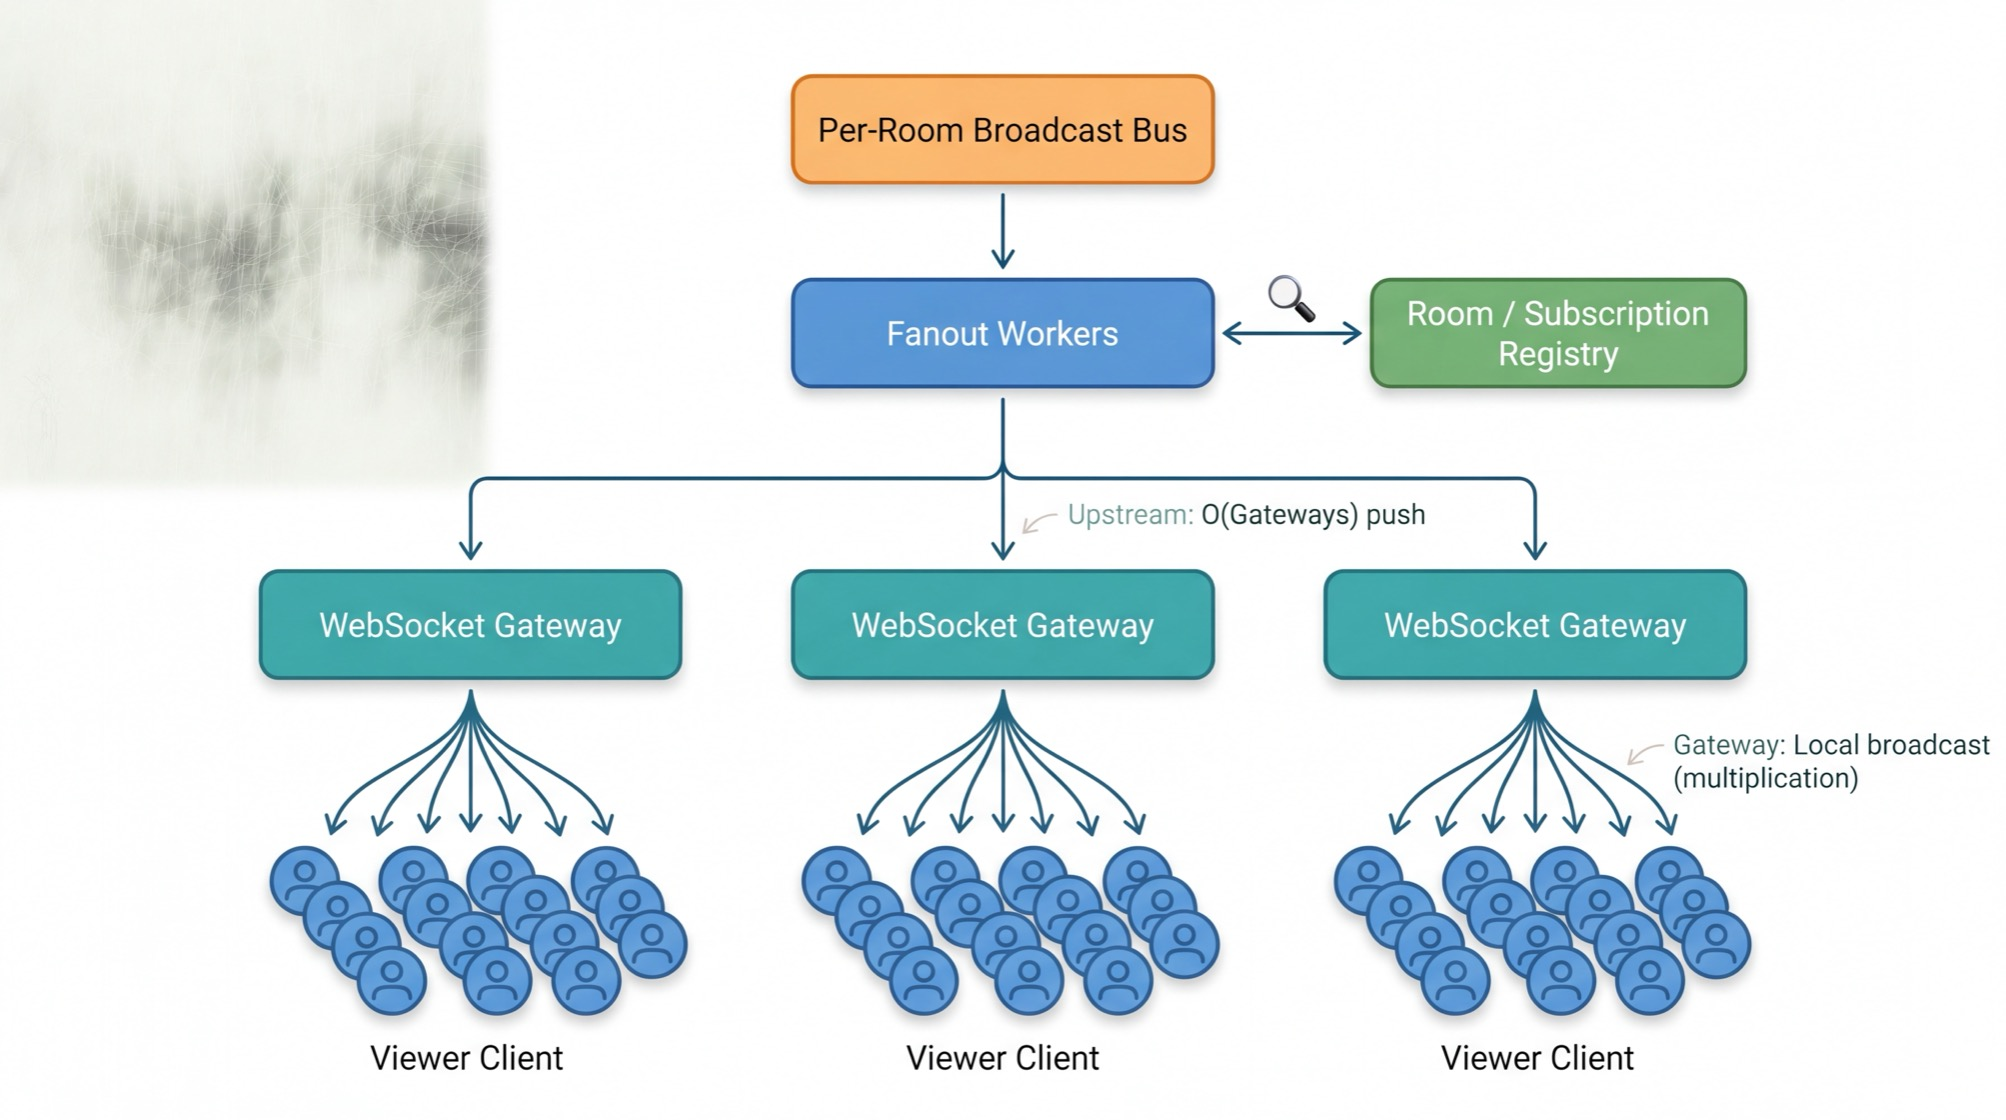
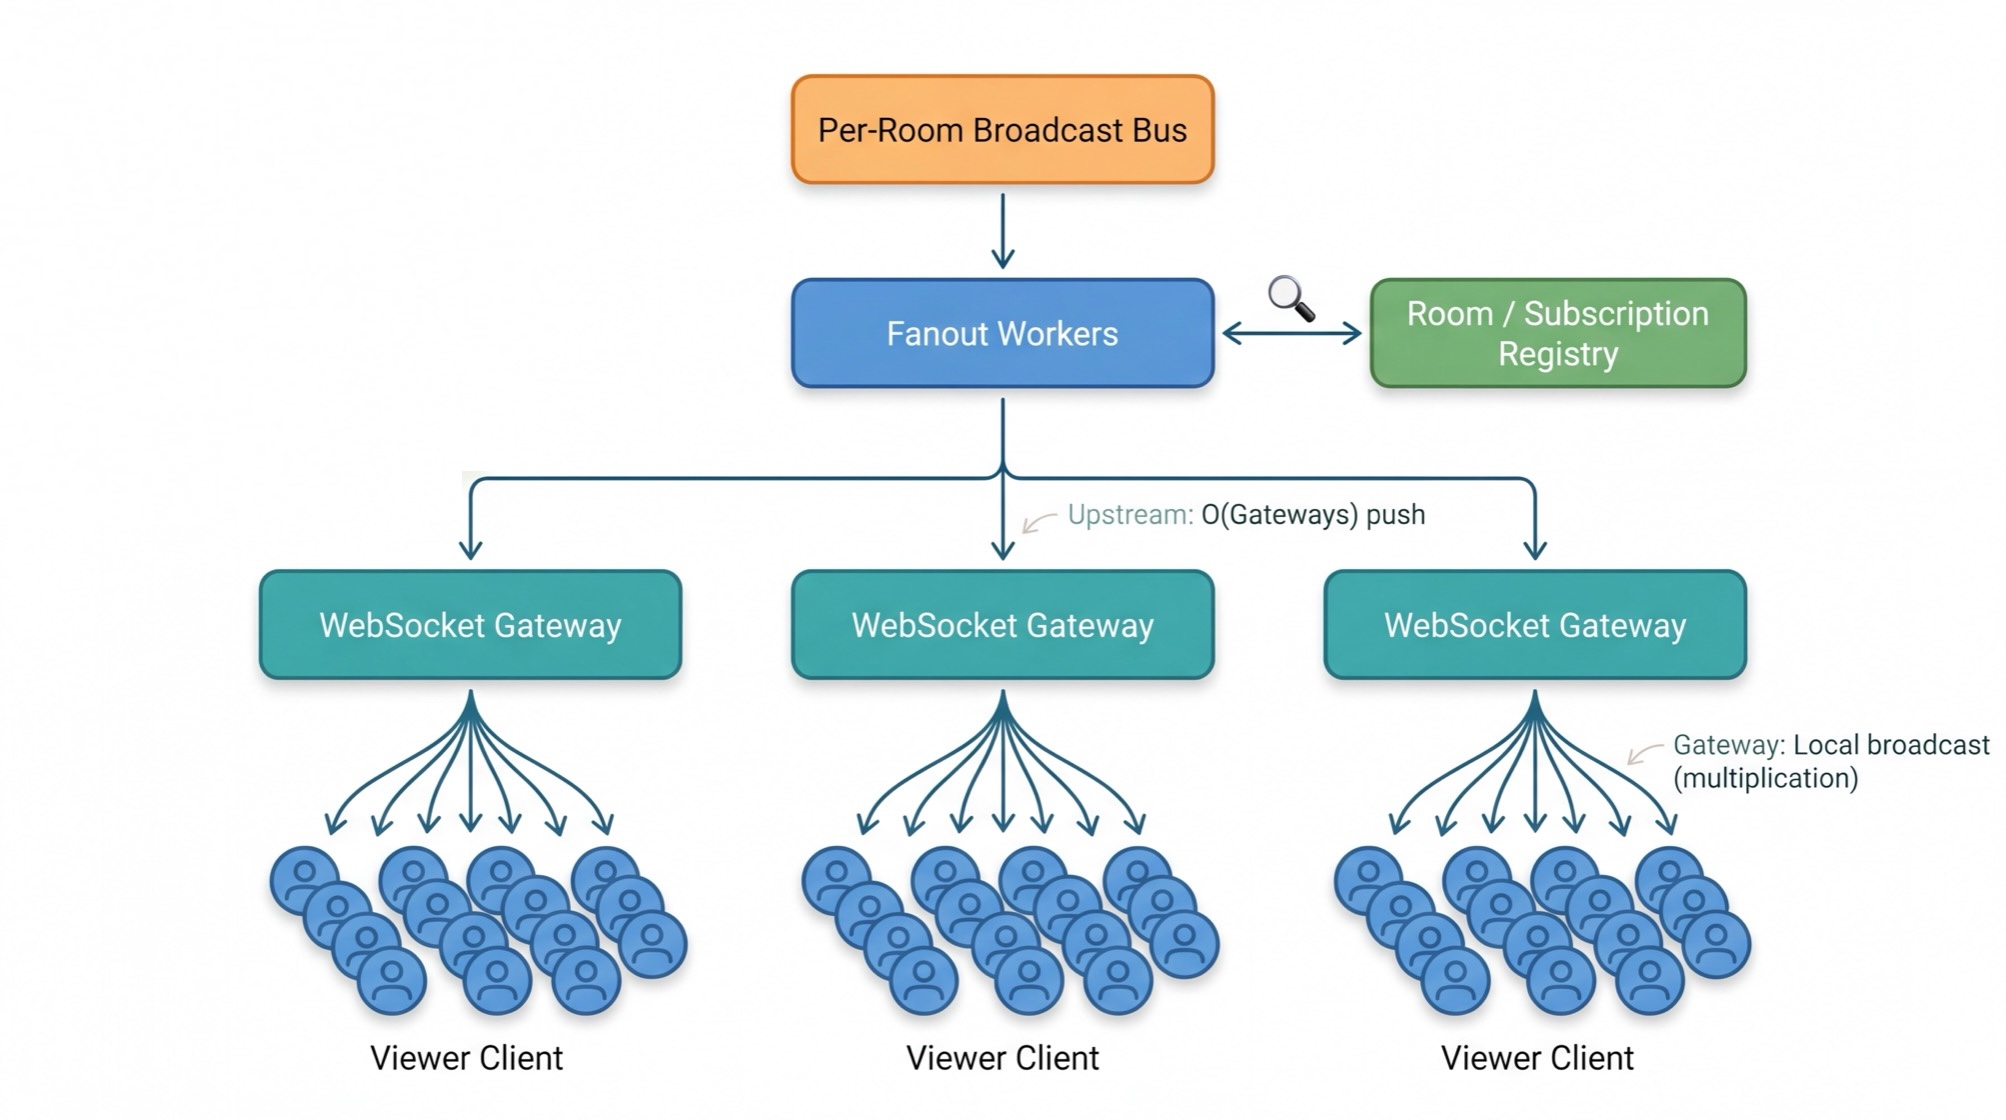
Image optimization

Changed region(s): [[0.0, 0.0625, 0.2473, 0.4062]]

diff --git a/data/book/ai-coding-cli/LINKEDIN.md b/data/book/ai-coding-cli/LINKEDIN.md
@@ -13,10 +13,10 @@ The technology choices make the trade-offs concrete: ripgrep versus semantic ind
 Managed tools reduce operations. They do not decide permissions, token budgets, cache-aware routing, retries, or human review.
 
 Try the interactive walkthrough:
-https://zeljkoobrenovic.github.io/spec-driven-system-design-interviews/book/interview.html#ai-coding-cli
+https://system-design-interviews.com/book/interview.html#ai-coding-cli
 
 Explore the project/book catalog:
-https://zeljkoobrenovic.github.io/spec-driven-system-design-interviews/book/index.html
+https://system-design-interviews.com/book/index.html
 
 Free source code:
 https://github.com/zeljkoobrenovic/spec-driven-system-design-interviews

diff --git a/data/book/analytics-pipeline/LINKEDIN.md b/data/book/analytics-pipeline/LINKEDIN.md
@@ -11,10 +11,10 @@ The speed layer gives dashboards fresh clicks, impressions, CTR, and conversion 
 The technology choices make the trade-offs concrete: Kafka, Redpanda, Pulsar, Kinesis, Pub/Sub, and Event Hubs for ingestion; Flink, Spark, Dataflow, and Databricks for stream processing; Redis, Cassandra, DynamoDB, Bigtable, and Cosmos DB for state; S3, Cloud Storage, Blob Storage, HDFS, and Ceph for the raw lake; ClickHouse, BigQuery, Redshift, Synapse, and OpenSearch for rollups.
 
 Try the interactive walkthrough:
-https://zeljkoobrenovic.github.io/spec-driven-system-design-interviews/book/interview.html#analytics-pipeline
+https://system-design-interviews.com/book/interview.html#analytics-pipeline
 
 Explore the project/book catalog:
-https://zeljkoobrenovic.github.io/spec-driven-system-design-interviews/book/index.html
+https://system-design-interviews.com/book/index.html
 
 Free source code:
 https://github.com/zeljkoobrenovic/spec-driven-system-design-interviews

diff --git a/data/book/auth-system/LINKEDIN.md b/data/book/auth-system/LINKEDIN.md
@@ -15,10 +15,10 @@ What makes the case useful is the failure-mode thinking: what if the password da
 Technology choices are options, not endorsements: Keycloak, Cognito, Microsoft Entra ID, Identity Platform, OPA/OpenFGA, Redis/Valkey, KMS/HSM signing, API gateways, WAFs, audit pipelines, and managed databases can remove plumbing, but not the reasoning around token lifetime, tenant isolation, revocation, policy freshness, and abuse controls.
 
 Try the interactive walkthrough:
-https://zeljkoobrenovic.github.io/spec-driven-system-design-interviews/book/interview.html#auth-system
+https://system-design-interviews.com/book/interview.html#auth-system
 
 Project/book catalog:
-https://zeljkoobrenovic.github.io/spec-driven-system-design-interviews/book/index.html
+https://system-design-interviews.com/book/index.html
 
 Free source code:
 https://github.com/zeljkoobrenovic/spec-driven-system-design-interviews

diff --git a/data/book/authorization/LINKEDIN.md b/data/book/authorization/LINKEDIN.md
@@ -13,10 +13,10 @@ It also covers the part many candidates miss: listing. "Can user:42 view doc:9?"
 Modern implementations can use pieces like SpiceDB, OpenFGA, OPA, Cedar, Verified Permissions, Redis/Valkey, Kafka/Kinesis/Pub/Sub, DynamoDB, Spanner, and PostgreSQL. The point is to understand which responsibility each tool removes, and which correctness semantics still belong to the design.
 
 Try the interactive walkthrough:
-https://zeljkoobrenovic.github.io/spec-driven-system-design-interviews/book/interview.html#authorization
+https://system-design-interviews.com/book/interview.html#authorization
 
 Explore the project/book catalog:
-https://zeljkoobrenovic.github.io/spec-driven-system-design-interviews/book/index.html
+https://system-design-interviews.com/book/index.html
 
 Free source code:
 https://github.com/zeljkoobrenovic/spec-driven-system-design-interviews

diff --git a/data/book/autocomplete/LINKEDIN.md b/data/book/autocomplete/LINKEDIN.md
@@ -11,10 +11,10 @@ The lesson is not just "use a trie." The lesson is how to separate serving laten
 Modern technology choices make the trade-offs concrete: OpenSearch or Lucene suggesters can accelerate adoption, a custom compressed trie/FST can reduce serving footprint, CloudFront or Cloud CDN can absorb the hot head, Kafka/Kinesis/Pub/Sub can carry query events, and Flink/Dataflow-style aggregation can maintain rolling popularity counts. Those choices still leave cache keys, freshness windows, shard ownership, abuse controls, and rollback.
 
 Try the interactive walkthrough:
-https://zeljkoobrenovic.github.io/spec-driven-system-design-interviews/book/interview.html#autocomplete
+https://system-design-interviews.com/book/interview.html#autocomplete
 
 Explore the project/book catalog:
-https://zeljkoobrenovic.github.io/spec-driven-system-design-interviews/book/index.html
+https://system-design-interviews.com/book/index.html
 
 Free source code:
 https://github.com/zeljkoobrenovic/spec-driven-system-design-interviews

diff --git a/data/book/calendar/LINKEDIN.md b/data/book/calendar/LINKEDIN.md
@@ -11,10 +11,10 @@ It is a good interview because the trade-offs are not cosmetic. You have to expl
 Modern implementation choices make the discussion sharper: managed databases for calendar-sharded event rows and conditional writes, streams or queues for the outbox/projectors, delayed queues or workflow engines for reminders, Redis-like caches for hot views, and gateways/identity services for auth and rate limits. They reduce infrastructure work, but they do not remove the domain semantics.
 
 Try the interactive walkthrough:
-https://zeljkoobrenovic.github.io/spec-driven-system-design-interviews/book/interview.html#calendar
+https://system-design-interviews.com/book/interview.html#calendar
 
 Explore the project/book catalog:
-https://zeljkoobrenovic.github.io/spec-driven-system-design-interviews/book/index.html
+https://system-design-interviews.com/book/index.html
 
 Free source code:
 https://github.com/zeljkoobrenovic/spec-driven-system-design-interviews

diff --git a/data/book/cicd-pipeline/LINKEDIN.md b/data/book/cicd-pipeline/LINKEDIN.md
@@ -15,10 +15,10 @@ Crash gates and feature flags protect mobile releases, where instant rollback is
 The technology choices make the trade-offs concrete: self-hosted Jenkins, Tekton, Argo, GitLab, or GitHub runners versus managed CodeBuild, Cloud Build, or Azure Pipelines; Kubernetes runner pools versus managed workers; Bazel or Gradle caches; Harbor or managed registries; Argo CD/Rollouts, Flux/Flagger, or Spinnaker; and Prometheus/Grafana or cloud observability.
 
 Try the interactive walkthrough:
-https://zeljkoobrenovic.github.io/spec-driven-system-design-interviews/book/interview.html#cicd-pipeline
+https://system-design-interviews.com/book/interview.html#cicd-pipeline
 
 Explore the project/book catalog:
-https://zeljkoobrenovic.github.io/spec-driven-system-design-interviews/book/index.html
+https://system-design-interviews.com/book/index.html
 
 Free source code:
 https://github.com/zeljkoobrenovic/spec-driven-system-design-interviews

diff --git a/data/book/data-warehouse/LINKEDIN.md b/data/book/data-warehouse/LINKEDIN.md
@@ -19,10 +19,10 @@ Modern tools can shorten the build, but they do not remove the questions. You mi
 The key is choosing where the platform gives you replay, atomic publish, governance, and operable backfills.
 
 Try the interactive walkthrough:
-https://zeljkoobrenovic.github.io/spec-driven-system-design-interviews/book/interview.html#data-warehouse
+https://system-design-interviews.com/book/interview.html#data-warehouse
 
 Explore the project/book catalog:
-https://zeljkoobrenovic.github.io/spec-driven-system-design-interviews/book/index.html
+https://system-design-interviews.com/book/index.html
 
 Free source code:
 https://github.com/zeljkoobrenovic/spec-driven-system-design-interviews

diff --git a/data/book/distributed-cache/LINKEDIN.md b/data/book/distributed-cache/LINKEDIN.md
@@ -15,10 +15,10 @@ Technology choices make the trade-offs concrete. Memcached is lean for plain key
 Managed services help, but they do not remove the fundamentals: key ownership, eviction, invalidation, TTL jitter, backfill budgets, replica-lag alerts, stale-serve rules, and the response when DB fallback exceeds budget.
 
 Try the interactive walkthrough:
-https://zeljkoobrenovic.github.io/spec-driven-system-design-interviews/book/interview.html#distributed-cache
+https://system-design-interviews.com/book/interview.html#distributed-cache
 
 Explore the project/book catalog:
-https://zeljkoobrenovic.github.io/spec-driven-system-design-interviews/book/index.html
+https://system-design-interviews.com/book/index.html
 
 Free source code:
 https://github.com/zeljkoobrenovic/spec-driven-system-design-interviews

diff --git a/data/book/distributed-kv-store/LINKEDIN.md b/data/book/distributed-kv-store/LINKEDIN.md
@@ -13,10 +13,10 @@ Technology choices make the trade-offs concrete. Cassandra, ScyllaDB, and Riak-s
 Managed services remove a lot of ownership. They do not remove the fundamentals: partitioning, replica placement, quorum math, conflict handling, repair lag, hot-key controls, and foreground-latency metrics.
 
 Try the interactive walkthrough:
-https://zeljkoobrenovic.github.io/spec-driven-system-design-interviews/book/interview.html#distributed-kv-store
+https://system-design-interviews.com/book/interview.html#distributed-kv-store
 
 Explore the project/book catalog:
-https://zeljkoobrenovic.github.io/spec-driven-system-design-interviews/book/index.html
+https://system-design-interviews.com/book/index.html
 
 Free source code:
 https://github.com/zeljkoobrenovic/spec-driven-system-design-interviews

diff --git a/data/book/feature-store/LINKEDIN.md b/data/book/feature-store/LINKEDIN.md
@@ -15,10 +15,10 @@ Technology trade-offs: Feast, Hopsworks, or custom registry vs managed feature s
 Managed services reduce control-plane code, but not the need to reason about leakage, skew, versioning, freshness, and governance.
 
 Try the interactive walkthrough:
-https://zeljkoobrenovic.github.io/spec-driven-system-design-interviews/book/interview.html#feature-store
+https://system-design-interviews.com/book/interview.html#feature-store
 
 Explore the project/book catalog:
-https://zeljkoobrenovic.github.io/spec-driven-system-design-interviews/book/index.html
+https://system-design-interviews.com/book/index.html
 
 Free source code:
 https://github.com/zeljkoobrenovic/spec-driven-system-design-interviews

diff --git a/data/book/file-sync/LINKEDIN.md b/data/book/file-sync/LINKEDIN.md
@@ -15,10 +15,10 @@ Technology choices make trade-offs concrete: PostgreSQL/Vitess/CockroachDB/Found
 Managed services remove plumbing. They do not remove idempotent commits, version conflicts, commit-time ACL checks, dedup privacy, cursor recovery, refcount drift, or GC safety.
 
 Try the walkthrough:
-https://zeljkoobrenovic.github.io/spec-driven-system-design-interviews/book/interview.html#file-sync
+https://system-design-interviews.com/book/interview.html#file-sync
 
 Explore the project/book catalog:
-https://zeljkoobrenovic.github.io/spec-driven-system-design-interviews/book/index.html
+https://system-design-interviews.com/book/index.html
 
 Free source code:
 https://github.com/zeljkoobrenovic/spec-driven-system-design-interviews